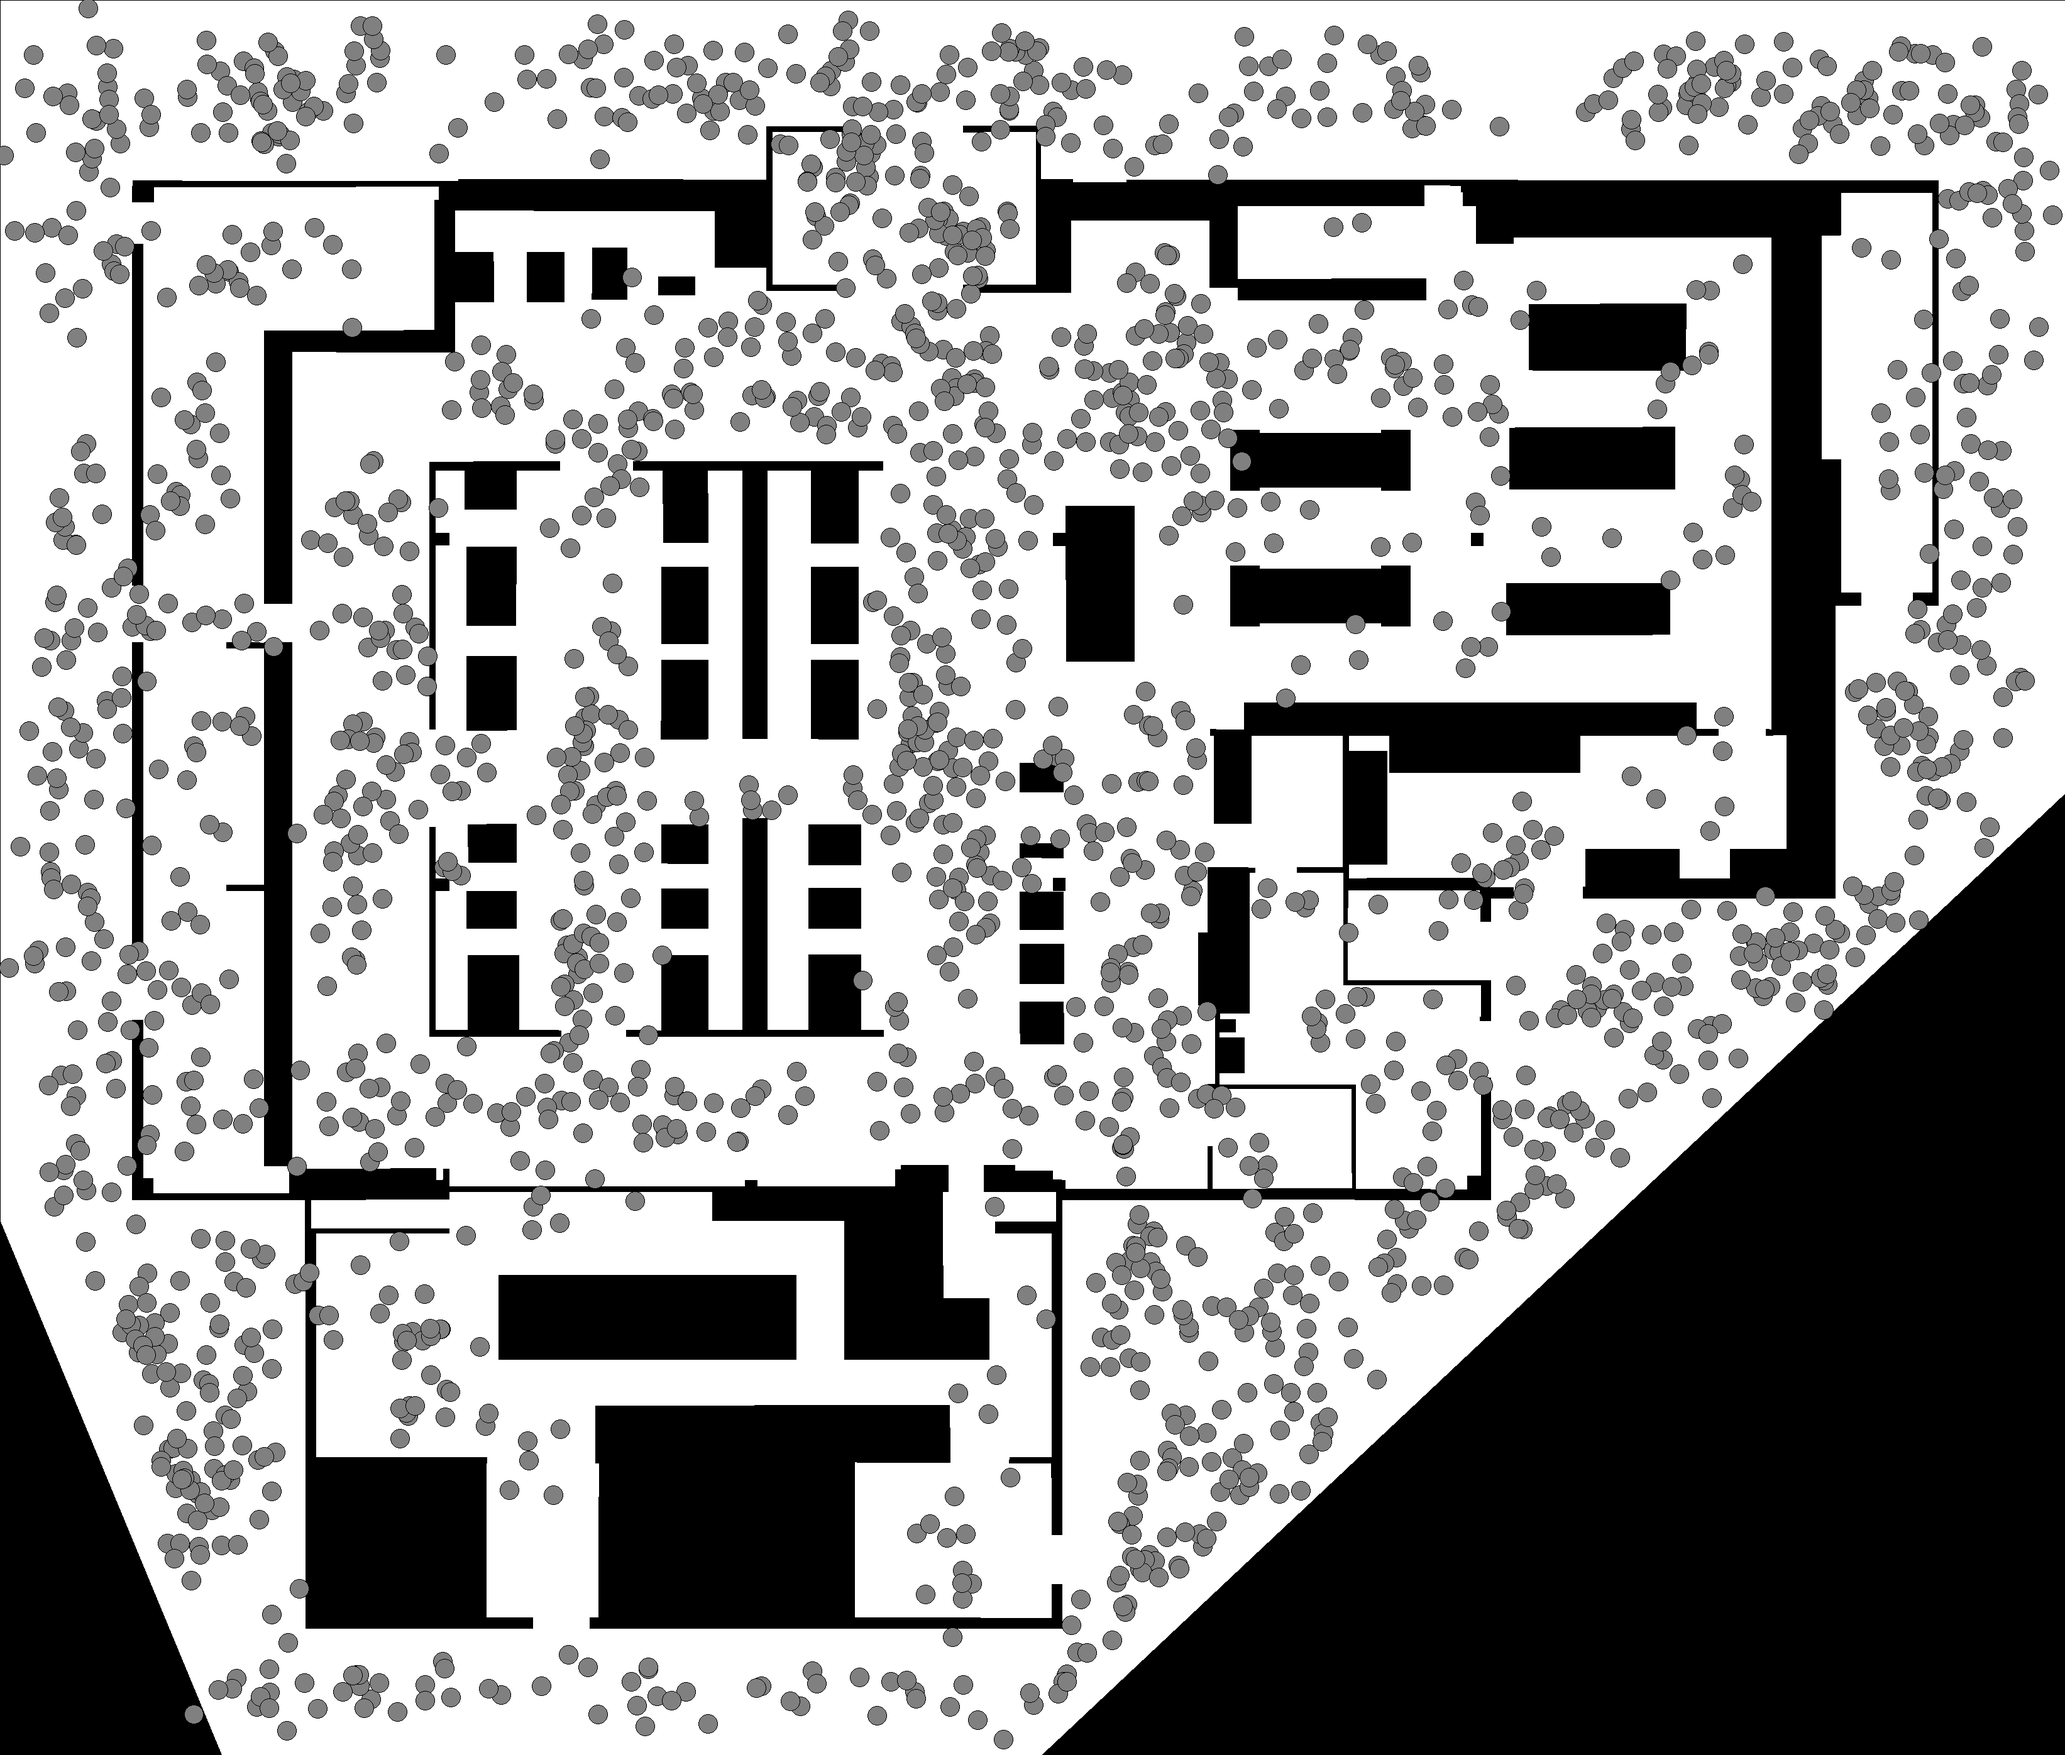
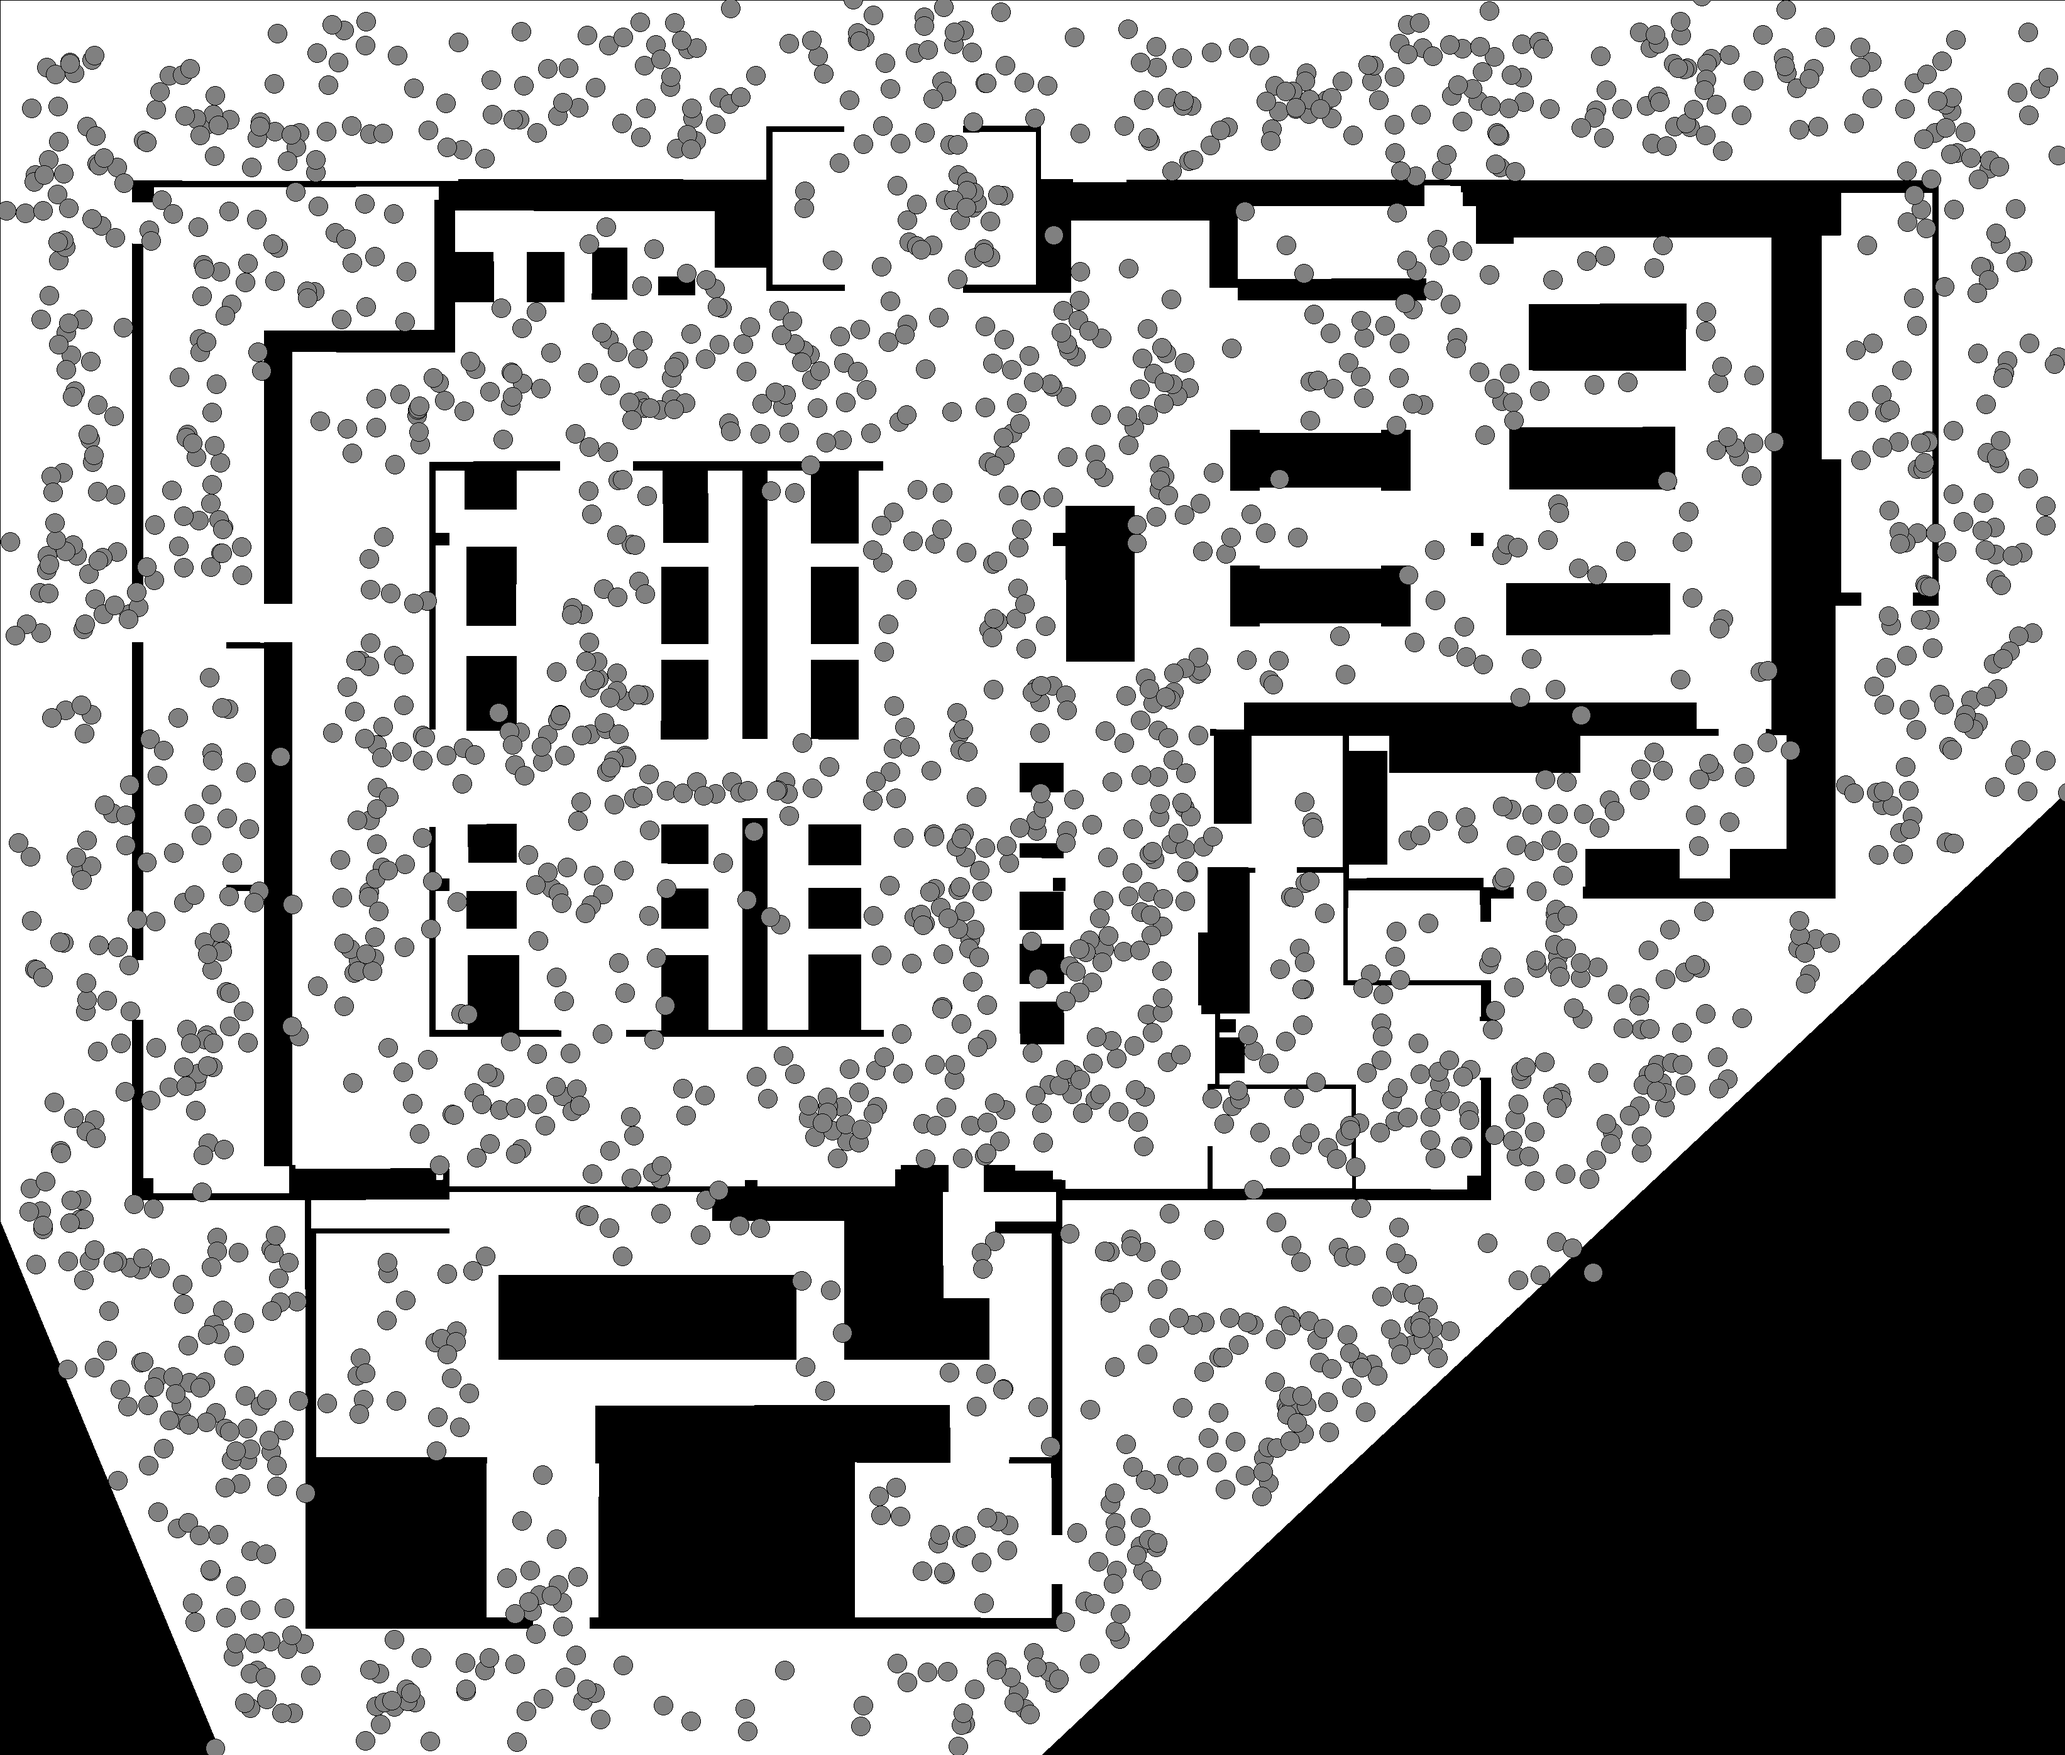
init

diff --git a/src/domain/particle_floor_map/particle_floor_map.py b/src/domain/particle_floor_map/particle_floor_map.py
@@ -1,5 +1,3 @@
-from PIL.Image import Image
-
 from config.const.color import (CANDIDATE_PARTICLES_COLOR,
                                 PARTICLE_OUTLINE_COLOR)
 from domain.estimated_particle.estimated_particle import EstimatedParticle
@@ -11,11 +9,7 @@ class ParticleFloorMap:
     def generate_image(
         floor_map: FloorMap,
         estimated_particle: EstimatedParticle,
-    ) -> Image:
-        """
-        ## 推定されたパーティクルの軌跡をGIFアニメーションとして生成する
-        """
-        # images_cluster: List[Image] = []
+    ):
         floor_map_copy = floor_map.clone()
 
         # パーティクルの位置を描画
@@ -26,10 +20,4 @@ class ParticleFloorMap:
                 outline_color=PARTICLE_OUTLINE_COLOR,
             )
 
-        floor_map_copy.get_floor_map().copy().save(
-            "particle_floor_map.png",
-        )
-
-        # images_cluster.append(floor_map_copy.get_floor_map().copy())
-
-        return floor_map_copy.get_floor_map().copy()
+        floor_map_copy.get_floor_map().copy().save("particle_floor_map.png")

diff --git a/src/presentation/handlers/move_particles_handler.py b/src/presentation/handlers/move_particles_handler.py
@@ -18,8 +18,6 @@ class MoveParticlesResponse(BaseModel):
 router = APIRouter()
 
 
-
-
 @router.post("/api/walk", response_model=MoveParticlesResponse, status_code=201)
 async def move_particles(move_particles_request: MoveParticlesRequest):
     try:
@@ -28,7 +26,7 @@ async def move_particles(move_particles_request: MoveParticlesRequest):
             stride=move_particles_request.stride,
             angle_variation=move_particles_request.angleVariation,
         )
-        result = move_particles_service.run(walking_parameter=walking_parameter)
+        move_particles_service.run(walking_parameter=walking_parameter)
         return MoveParticlesResponse(
             stride=move_particles_request.stride,
             angleVariation=move_particles_request.angleVariation,
@@ -36,5 +34,3 @@ async def move_particles(move_particles_request: MoveParticlesRequest):
 
     except Exception as e:
         raise HTTPException(status_code=500, detail=str(e)) from e
-
-

diff --git a/src/presentation/handlers/get_particles_floor_map_handler.py b/src/presentation/handlers/get_particles_floor_map_handler.py
@@ -1,0 +1,32 @@
+import os
+
+from fastapi import APIRouter, HTTPException
+from fastapi.responses import FileResponse
+from pydantic import BaseModel
+
+
+class MoveParticlesRequest(BaseModel):
+    stride: int
+    angleVariation: int
+
+
+class MoveParticlesResponse(BaseModel):
+    stride: int
+    angleVariation: int
+
+
+router = APIRouter()
+
+image_path = "particle_floor_map.png"
+
+
+@router.get("/api/floor_map/get", status_code=200)
+async def reset_particles():
+    try:
+        if not os.path.exists(image_path):
+            return {"error": "File not found"}
+
+        return FileResponse(image_path, media_type="image/png")
+
+    except Exception as e:
+        raise HTTPException(status_code=500, detail=str(e)) from e

diff --git a/src/application/services/move_particles_service.py b/src/application/services/move_particles_service.py
@@ -20,13 +20,10 @@ class MoveParticlesService:
 
     def run(self, walking_parameter: WalkingParameter) -> WalkingParameter:
         tracking_particle.track(walking_parameter)
-        particle_floor_map = ParticleFloorMap.generate_image(
+
+        ParticleFloorMap.generate_image(
             floor_map=floor_map,
             estimated_particle=tracking_particle.last_estimation_particles(),
         )
 
         return walking_parameter
-
-    def reset(self):
-        tracking_particle.reset()
-        return tracking_particle

diff --git a/src/main.py b/src/main.py
@@ -2,6 +2,8 @@ from fastapi import FastAPI, HTTPException
 from fastapi.responses import JSONResponse
 from starlette.requests import Request
 
+from presentation.handlers.get_particles_floor_map_handler import \
+    router as get_image_router
 from presentation.handlers.move_particles_handler import \
     router as move_particles_router
 
@@ -9,6 +11,7 @@ app = FastAPI()
 
 
 app.include_router(move_particles_router)
+app.include_router(get_image_router)
 
 
 @app.exception_handler(HTTPException)

diff --git a/src/application/services/get_particles_floor_map_sercice.py b/src/application/services/get_particles_floor_map_sercice.py
@@ -1,0 +1,17 @@
+from PIL import Image
+
+from config.const.path import IMAGE_PATH
+from domain.floor_map.floor_map import FloorMap
+from domain.tracking_particle.tracking_particle import TrackingParticle
+
+floor_image_path = f"{IMAGE_PATH}/floor1.png"
+floor_image = Image.open(floor_image_path)
+floor_map = FloorMap(floor_image)
+tracking_particle = TrackingParticle(floor_map=floor_map)
+
+
+class GetParticlesFloorMapService:
+    def __init__(
+        self,
+    ):
+        pass

diff --git a/src/domain/tracking_particle/tracking_particle.py b/src/domain/tracking_particle/tracking_particle.py
@@ -20,8 +20,6 @@ class TrackingParticle:
         self.__estimation_particles: List[EstimatedParticle] = []
         self.__walking_parameter_collection = WalkingParameterCollection()
 
-    
-
     def reset(self) -> None:
         self.__tracking_count = 0
         self.__coverage_count = 0
